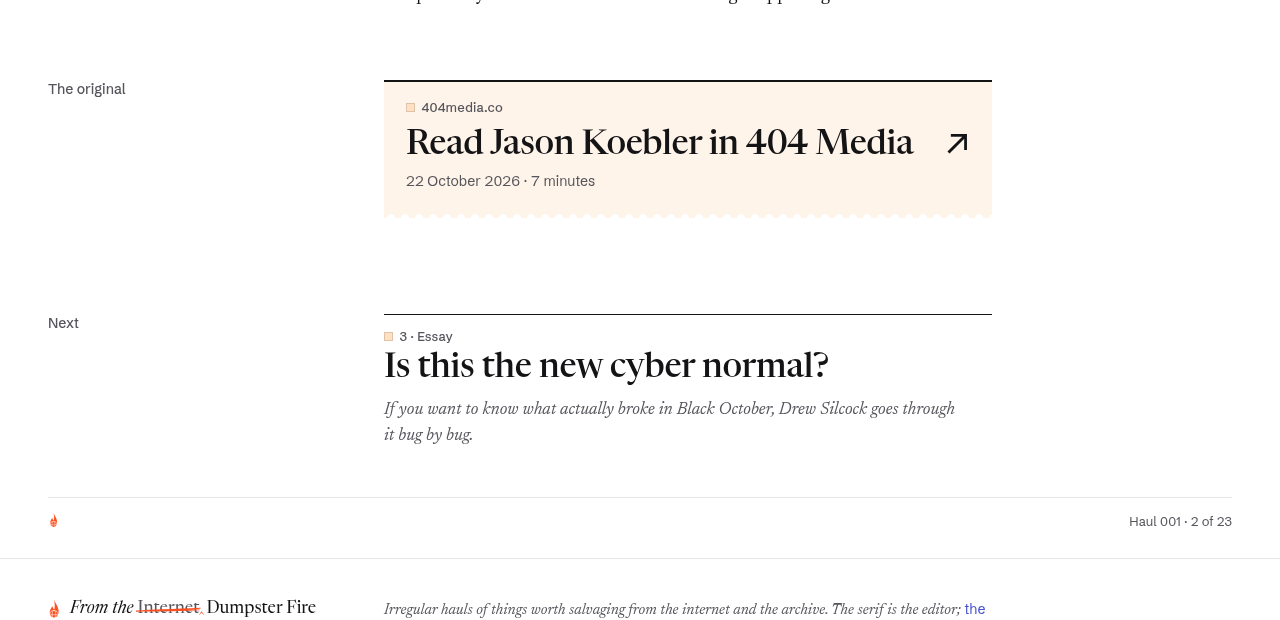
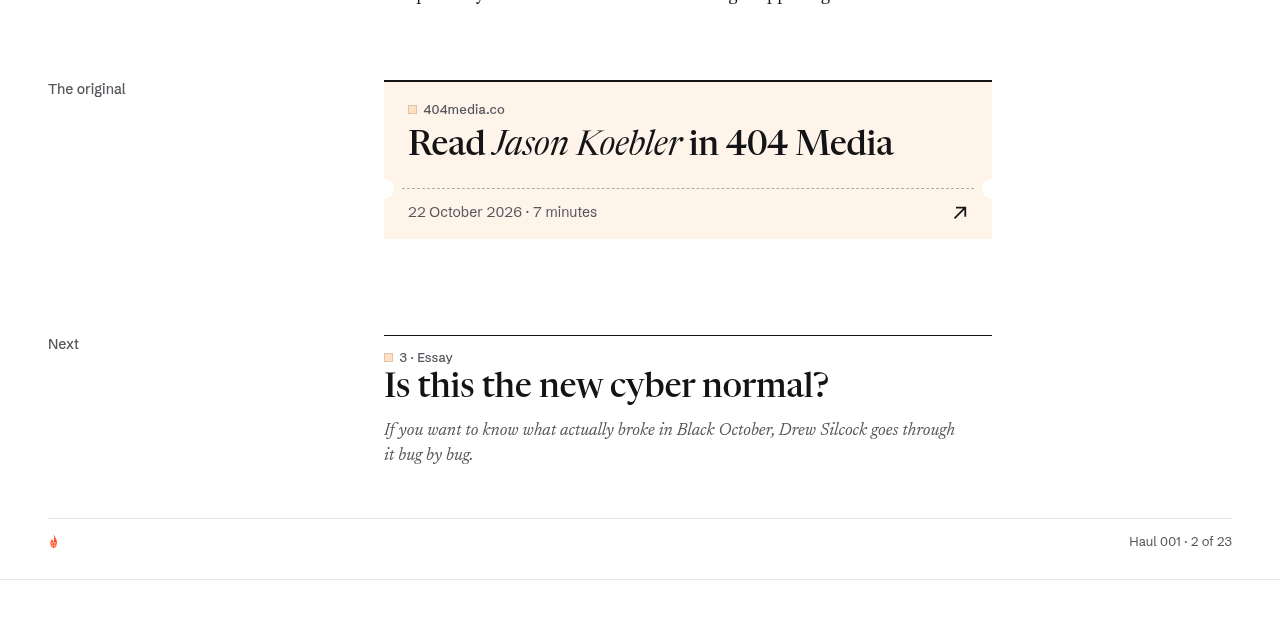
The original set as a ticket: tear line with notches, the name in italic, the stub below

diff --git a/apps/mobile/src/screens/ItemScreen.tsx b/apps/mobile/src/screens/ItemScreen.tsx
@@ -787,14 +787,17 @@ function SeeAlso({ haul, item, bare }: { haul: Haul; item: Item; bare?: boolean 
   );
 }
 
-/** The original: a stub torn from a ticket, in a wash of the item's colour (the website's .orig). Where it
- * lives, the action that names the person, the date and the length; nothing fetched from the other site. */
+/** The original: a ticket in a wash of the item's colour under an ink rule (the website's .orig). Above
+ * the tear, where it lives and the action that names the person (the name in italic); on the stub, the
+ * date and length and the arrow out; notches cut where it tears. Nothing is fetched from the other site. */
 function Source({ item }: { item: Item }) {
   const p = usePalette();
   const label = sourceAction(item);
   const url = item.media?.url ?? item.source.url;
   const date = label.includes(item.source.date) ? '' : item.source.date;
   const meta = joinMeta(date, item.minutes && item.minutes > 1 ? minutes(item.minutes) : undefined);
+  const who = item.creator.trim();
+  const at = who ? label.indexOf(who) : -1;
   return (
     <View style={{ marginTop: 38 }}>
       <Meta>The original</Meta>
@@ -804,18 +807,32 @@ function Source({ item }: { item: Item }) {
         onPress={() => openSource(url, p)}
         style={({ pressed }) => [styles.orig, { borderTopColor: p.ink, backgroundColor: p.bg, opacity: pressed ? 0.7 : 1 }]}
       >
-        <View style={[StyleSheet.absoluteFill, { backgroundColor: typeColor(p, item.type), opacity: 0.36 }]} />
-        <View style={styles.origK}>
-          <Key type={item.type} />
-          <Text style={[styles.origHost, { color: p.ink2 }]} numberOfLines={1}>{hostOf(url)}</Text>
+        <View style={[StyleSheet.absoluteFill, { backgroundColor: typeColor(p, item.type), opacity: 0.34 }]} />
+        <View style={styles.origB}>
+          <View style={styles.origK}>
+            <Key type={item.type} />
+            <Text style={[styles.origHost, { color: p.ink2 }]} numberOfLines={1}>{hostOf(url)}</Text>
+          </View>
+          <Text style={[styles.origT, label.length > 46 && styles.origLong, { color: p.ink }]}>
+            {at >= 0 ? (
+              <>
+                {label.slice(0, at)}
+                <Text style={styles.origWho}>{who}</Text>
+                {label.slice(at + who.length)}
+              </>
+            ) : (
+              label
+            )}
+          </Text>
         </View>
-        <View style={styles.origRow}>
-          <Text style={[styles.origT, label.length > 46 && styles.origLong, { color: p.ink }]}>{label}</Text>
+        <View style={styles.origF}>
+          <View style={styles.tear} pointerEvents="none">
+            {Array.from({ length: 60 }, (_, i) => <View key={i} style={[styles.dash, { backgroundColor: p.ink2 }]} />)}
+          </View>
+          <View style={[styles.notch, { left: -10, backgroundColor: p.bg }]} />
+          <View style={[styles.notch, { right: -10, backgroundColor: p.bg }]} />
+          <Text style={[styles.origD, { color: p.ink2 }]}>{meta || 'Opens in your browser'}</Text>
           <Text style={[styles.origAr, { color: p.ink }]}>↗</Text>
-        </View>
-        {meta ? <Text style={[styles.origD, { color: p.ink2 }]}>{meta}</Text> : null}
-        <View style={styles.perf} pointerEvents="none">
-          {Array.from({ length: 40 }, (_, i) => <View key={i} style={[styles.hole, { backgroundColor: p.bg }]} />)}
         </View>
       </Pressable>
     </View>
@@ -989,15 +1006,18 @@ const styles = StyleSheet.create({
   saveText: { fontFamily: fonts.sansBold, fontSize: 13 },
   next: { marginTop: 34, paddingTop: 14, borderTopWidth: 1 },
   nextWhy: { fontFamily: fonts.textItalic, fontSize: 17, lineHeight: 25, marginTop: 10 },
-  orig: { marginTop: 10, borderTopWidth: 2, paddingHorizontal: 18, paddingTop: 14, paddingBottom: 24, overflow: 'hidden' },
+  orig: { marginTop: 10, borderTopWidth: 2, overflow: 'hidden' },
+  origB: { paddingHorizontal: 18, paddingTop: 16, paddingBottom: 20, gap: 10 },
   origK: { flexDirection: 'row', alignItems: 'center', gap: 2 },
   origHost: { fontFamily: fonts.sansMedium, fontSize: 13, flexShrink: 1 },
-  origRow: { flexDirection: 'row', alignItems: 'flex-start', gap: 14, marginTop: 8 },
-  origT: { flex: 1, fontFamily: fonts.display, fontSize: 25, lineHeight: 30, includeFontPadding: false },
+  origT: { fontFamily: fonts.display, fontSize: 25, lineHeight: 30, includeFontPadding: false },
+  origWho: { fontFamily: fonts.displayItalic },
   origLong: { fontSize: 21, lineHeight: 26 },
-  origAr: { fontFamily: fonts.sans, fontSize: 28, lineHeight: 30 },
-  origD: { fontFamily: fonts.sans, fontSize: 14, lineHeight: 20, marginTop: 8, fontVariant: ['tabular-nums'] },
-  perf: { position: 'absolute', left: 0, right: 0, bottom: -4, height: 8, flexDirection: 'row', gap: 7 },
-  hole: { width: 7, height: 7, borderRadius: 3.5 },
+  origF: { flexDirection: 'row', alignItems: 'center', justifyContent: 'space-between', gap: 14, paddingHorizontal: 18, paddingTop: 12, paddingBottom: 13 },
+  origD: { flexShrink: 1, fontFamily: fonts.sans, fontSize: 14, lineHeight: 20, fontVariant: ['tabular-nums'] },
+  origAr: { fontFamily: fonts.sans, fontSize: 22, lineHeight: 24 },
+  tear: { position: 'absolute', top: -1, left: 18, right: 18, height: 1.5, flexDirection: 'row', gap: 4, overflow: 'hidden', opacity: 0.45 },
+  dash: { width: 5, height: 1.5 },
+  notch: { position: 'absolute', top: -10, width: 20, height: 20, borderRadius: 10 },
   colophon: { fontFamily: fonts.text, fontSize: 15.5, lineHeight: 23, marginTop: 10 },
 });

diff --git a/apps/web/src/styles/global.css b/apps/web/src/styles/global.css
@@ -346,23 +346,31 @@ a.sa-t::after { content: ''; position: absolute; inset: 0; }
 .src { display: flex; flex-wrap: wrap; gap: 4px 18px; align-items: baseline; padding-block: 14px 8px; font-size: 1.0625rem; }
 .src > span { font: 400 0.875rem var(--sans); color: var(--ink2); }
 
-/* The original: a stub torn from a ticket, in a wash of the item's colour. Where it lives, the
-   action that names the person, the date and length; nothing fetched from the other site. */
-.orig { position: relative; display: grid; grid-template-columns: minmax(0, 1fr) auto; column-gap: 20px; row-gap: 6px; padding: 16px 22px 26px; background: color-mix(in srgb, var(--tint) 36%, var(--bg)); border-top: 2px solid var(--ink); color: var(--ink); text-decoration: none; }
-.orig::after { content: ''; position: absolute; left: 0; right: 0; bottom: -5px; height: 10px; background: radial-gradient(circle at 7px 5px, var(--bg) 3.6px, transparent 4.2px) 0 0 / 14px 10px repeat-x; }
-.orig-k { grid-column: 1 / -1; font: 500 0.8125rem/1.5 var(--sans); color: var(--ink2); letter-spacing: 0.01em; overflow-wrap: anywhere; }
-.orig-t { grid-column: 1; font: 500 clamp(1.5rem, 3.4vw, 2.125rem)/1.12 var(--display); letter-spacing: -0.012em; text-wrap: balance; padding-top: 4px; }
-.orig-long { font-size: clamp(1.25rem, 2.6vw, 1.625rem); line-height: 1.2; }
+/* The original: a ticket in a wash of the item's colour, under an ink rule. Above the tear, where it
+   lives and the action that names the person (the name in italic); on the stub below, the date and the
+   length, and the arrow out. Notches are cut where it tears. Built from the bundle alone. */
+.orig { display: grid; background: color-mix(in srgb, var(--tint) 34%, var(--bg)); border-top: 2px solid var(--ink); color: var(--ink); text-decoration: none; }
+.orig-b { display: grid; gap: 10px; padding: 18px 24px 22px; }
+.orig-k { display: flex; align-items: baseline; font: 500 0.8125rem/1.4 var(--sans); color: var(--ink2); letter-spacing: 0.01em; overflow-wrap: anywhere; }
+.orig-t { font: 500 clamp(1.5rem, 3.4vw, 2.125rem)/1.14 var(--display); letter-spacing: -0.012em; text-wrap: balance; }
+.orig-t em { font-family: var(--display); font-style: italic; font-weight: 400; letter-spacing: -0.005em; }
+.orig-long { font-size: clamp(1.25rem, 2.6vw, 1.625rem); line-height: 1.22; }
 .orig .nw { white-space: nowrap; }
-.orig-d { grid-column: 1; font: 400 0.875rem/1.5 var(--sans); color: var(--ink2); font-variant-numeric: tabular-nums; }
-.orig-ar { grid-column: 2; grid-row: 2 / span 2; align-self: start; padding-top: 2px; font: 400 clamp(1.75rem, 3.6vw, 2.375rem)/1 var(--sans); transition: transform 160ms ease; }
+.orig-f { position: relative; display: flex; align-items: center; justify-content: space-between; gap: 16px; padding: 12px 24px 14px; }
+/* Notches cut where it tears; the tear line stops short of them. */
+.orig-f::before, .orig-f::after { content: ''; position: absolute; top: -10px; width: 20px; height: 20px; border-radius: 50%; background: var(--bg); }
+.orig-f::before { left: -10px; }
+.orig-f::after { right: -10px; }
+.orig-tear { position: absolute; top: -0.75px; left: 18px; right: 18px; border-top: 1.5px dashed color-mix(in srgb, var(--ink) 32%, transparent); }
+.orig-d { font: 400 0.875rem/1.4 var(--sans); color: var(--ink2); font-variant-numeric: tabular-nums; }
+.orig-ar { font: 400 1.5rem/1 var(--sans); transition: transform 160ms ease; }
 @media (hover: hover) {
   .orig:hover .orig-t { text-decoration: underline; text-decoration-thickness: 1px; text-underline-offset: 0.14em; }
   .orig:hover .orig-ar { transform: translate(3px, -3px); }
 }
 @media (prefers-reduced-motion: reduce) { .orig-ar { transition: none; } }
 .orig:focus-visible { outline: 2px solid var(--ink); outline-offset: 4px; }
-@media (max-width: 599px) { .orig { padding: 14px 16px 24px; column-gap: 14px; } }
+@media (max-width: 599px) { .orig-b { padding: 16px 18px 20px; } .orig-f { padding: 11px 18px 12px; } }
 
 /* Next in the Haul: its place and type, its title, and the first line of the editor's note on it. */
 .next { padding-bottom: 8px; }

diff --git a/docs/STATUS.md b/docs/STATUS.md
@@ -1037,11 +1037,11 @@ From the editor's phone review of Haul 001. Website and app; shared code in `@fd
 
 ### The original, and each item's share card (2026-10-31, the editor: "make it look absolutely beautiful")
 
-- The link to the original is a stub torn from a ticket at the foot of every item (web `.orig` in
-  `ItemPage.astro`, app `Source` in `ItemScreen.tsx`): a wash of the item's type colour under an ink rule,
-  the host, `sourceAction` set large (the person's name never breaks at its hyphen; a long label a size
-  down), the date and length (a date already in the label and a one-minute length left out), and a
-  perforated edge. Text only, from the bundle: no picture or preview is fetched from the other site.
+- The link to the original is a ticket at the foot of every item (web `.orig` in `ItemPage.astro`, app
+  `Source` in `ItemScreen.tsx`): a wash of the item's type colour under an ink rule; above a dashed tear
+  with notches, the host and `sourceAction` set large (the person's name in italic and never broken, the
+  short tail "in 404 Media" kept on one line, a long label a size down); on the stub, the date and length
+  (a date already in the label and a one-minute length left out) and the arrow. Text only, from the bundle: no picture or preview is fetched from the other site.
 - Next shows the first sentence of the editor's note on the next item, under its title (web and app).
 - Each item has its own share card (`drawItemCard` in `apps/desk/src/lib/card.ts`): the Haul card's frame,
   the item's number in a block of its type colour, its title as large as fits, maker and place, and the

diff --git a/docs/DESIGN.md b/docs/DESIGN.md
@@ -141,9 +141,10 @@ ember and the type above it and the first sentence of the why under it. Across t
 three small ones 4, 4, 4; the second of a row sits a little lower, so the table stays uneven but every row
 is full and nothing jumps the queue (the card carries its plate like a clipped print). On phones they
 stack in order on one left edge. Then the thread as a list of years, and the colophon.
-At the foot of an item, **the original** is a stub torn from a ticket: a wash of the item's type colour
-under an ink rule, the host, the action that names the person set large, the date and length, and a
-perforated edge. It is built from the bundle alone; no picture or preview is fetched from the other site.
+At the foot of an item, **the original** is a ticket: a wash of the item's type colour under an ink rule;
+above a dashed tear with notches cut at both ends, the host and the action that names the person set large
+(the name in italic, the break kept before "in", never inside the name); on the stub below, the date and
+length and the arrow out. It is built from the bundle alone; no picture or preview is fetched from the other site.
 **Next** gives the next item's title and the first sentence of the editor's note on it. Each item's
 share card is the Haul card's frame with the item's number in a block of its type colour, its title and
 maker, and the fingerprint with its mark picked out.
